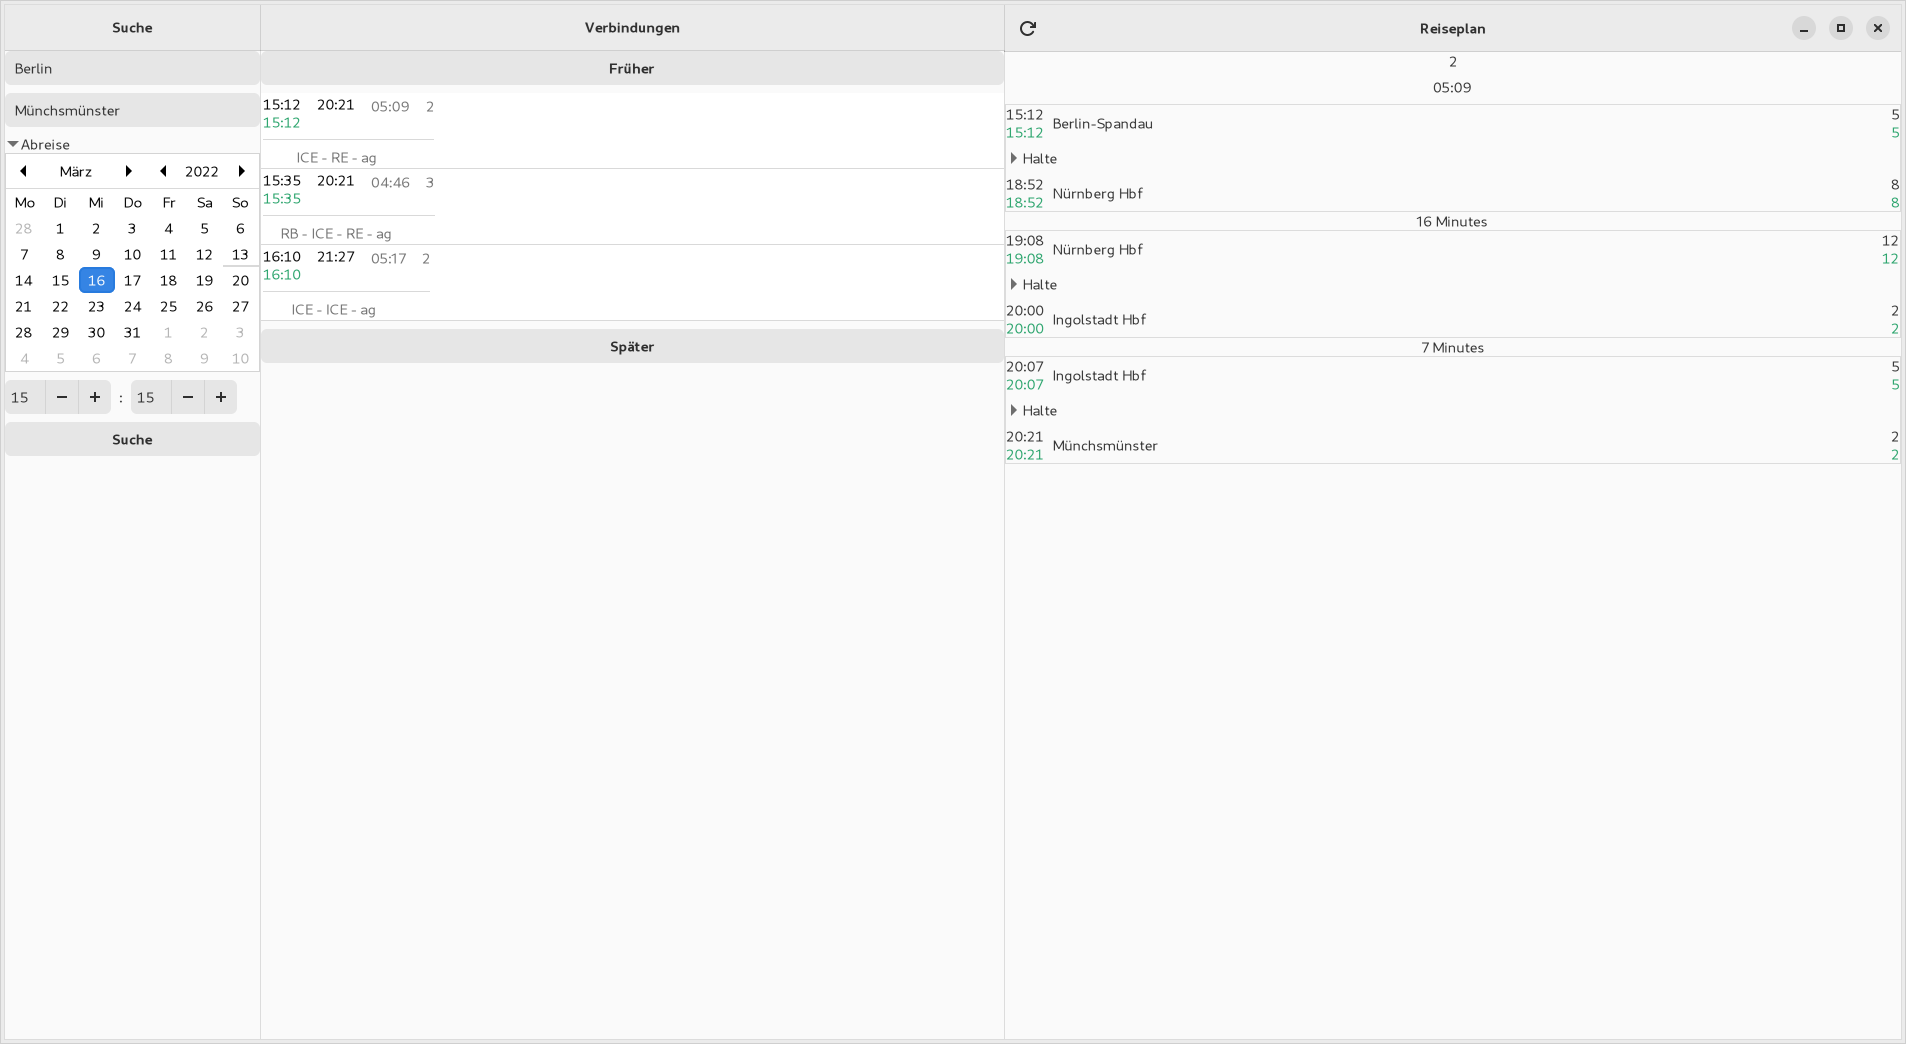
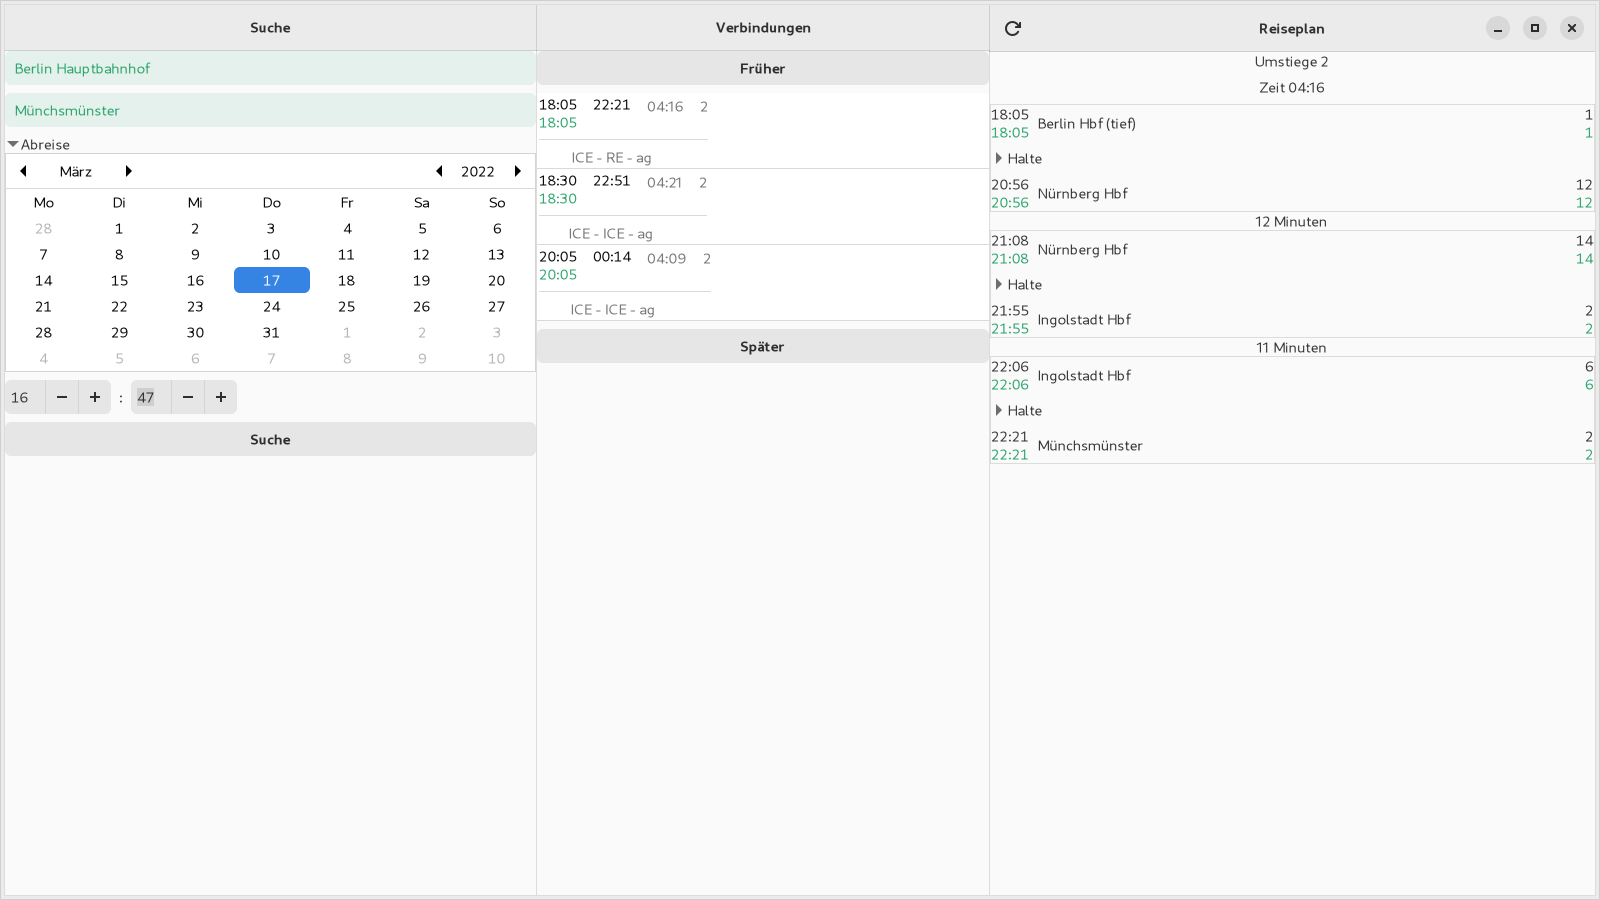
transl(de),doc(screens),tools(): Update translation, screenshots, tools
A new tool includes automatically creating the screenshots.

diff --git a/src/gui/station_entry.rs b/src/gui/station_entry.rs
@@ -18,7 +18,7 @@ impl StationEntry {
 pub mod imp {
     use std::cell::{RefCell, Cell};
     use std::sync::{Arc, Mutex};
-    use std::time::Instant;
+    use std::time::{Instant, Duration};
 
     use gdk::glib::{clone, ParamSpec, ParamSpecObject, ParamFlags, Value, ParamSpecBoolean, ParamSpecString};
     use gdk::glib::subclass::InitializingObject;
@@ -32,13 +32,15 @@ pub mod imp {
 
     use crate::gui::objects::StationObject;
 
+    const REQUEST_DURATION: Duration = Duration::from_secs(1);
+
     #[derive(CompositeTemplate, Default)]
     #[template(resource = "/ui/station_entry.ui")]
     pub struct StationEntry {
         #[template_child]
         entry: TemplateChild<gtk::Entry>,
 
-        last_changed: Arc<Mutex<Option<Instant>>>,
+        last_request: Arc<Mutex<Option<Instant>>>,
 
         hafas: RefCell<Option<Hafas>>,
 
@@ -57,20 +59,41 @@ pub mod imp {
             self.entry.connect_changed(
                 clone!(@strong obj,
                        @strong self.hafas as hafas, 
-                       @strong self.last_changed as last_changed => move |entry| {
-                    {
-                        let mut lock = last_changed.lock().expect("Failed to lock last_changed");
-                        *lock = Some(Instant::now());
-                    }
+                       @strong self.last_request as last_request => move |entry| {
 
                     let main_context = MainContext::default();
                     main_context.spawn_local(clone!(@strong obj,
                                                     @strong hafas, 
-                                                    @strong last_changed, 
+                                                    @strong last_request, 
                                                     @strong entry => async move {
                         let text = entry.text();
 
-                        if text.len() >= entry.completion().expect("Completion to be set up").minimum_key_length().try_into().unwrap() {
+                        let to_wait = {
+                            let mut last_request = last_request.lock().expect("last_request to be lockable.");
+                            if last_request.is_none() {
+                                *last_request = Some(Instant::now() - REQUEST_DURATION);
+                            }
+                            let duration_from_last_request = Instant::now() - last_request.expect("last_request to be set");
+                            if duration_from_last_request >= REQUEST_DURATION {
+                                Duration::ZERO
+                            } else {
+                                REQUEST_DURATION - duration_from_last_request
+                            }
+                        };
+
+                        log::trace!("Station entry changed. Wait {:?} for next request.", to_wait);
+
+                        tokio::time::sleep(to_wait).await;
+
+                        // Only request if text did not change since last time.
+                        if text.len() >= entry.completion().expect("Completion to be set up").minimum_key_length().try_into().unwrap() && entry.text() == text {
+                            log::trace!("Request is allowed with text {}.", text);
+                            {
+                                // Update last_request
+                                let mut last_request = last_request.lock().expect("last_request to be lockable.");
+                                *last_request = Some(Instant::now());
+                            }
+
                             let hafas_borrow = hafas.borrow();
                             let hafas = hafas_borrow.as_ref().expect("Hafas has not yet been set up.");
 

diff --git a/README.md b/README.md
@@ -2,6 +2,11 @@
 
 A GTK4 frontend for the travel information of the german railway ("Reiseauskunft der Deutschen Bahn").
 
+## Screenshots
+
+![Overview of the application](https://gitlab.com/Schmiddiii/diebahn/-/raw/master/packaging/screenshots/overview.png)
+![Smaller Screen](https://gitlab.com/Schmiddiii/diebahn/-/raw/master/packaging/screenshots/mobile.png)
+
 ## Features
 
 - Search for a journey.
@@ -11,6 +16,5 @@ A GTK4 frontend for the travel information of the german railway ("Reiseauskunft
 
 ## Still TODO
 
-- Better station search (currently one request for every typed letter).
 - Bookmark a search or a journey.
 - Show more information like prices.
